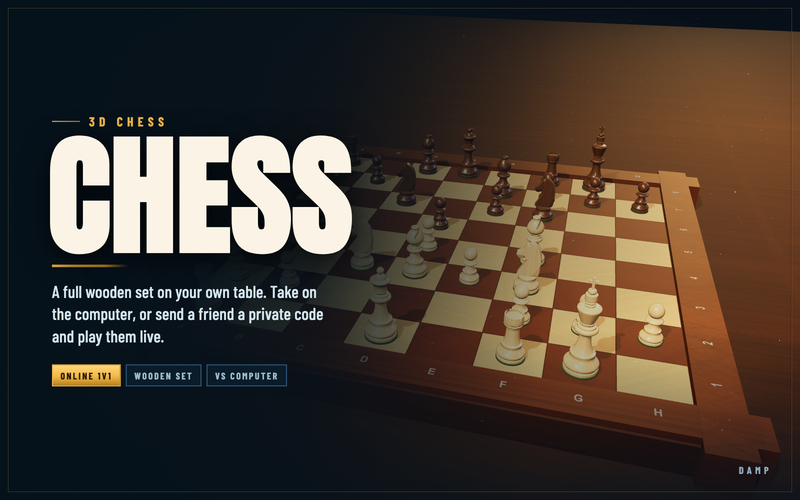
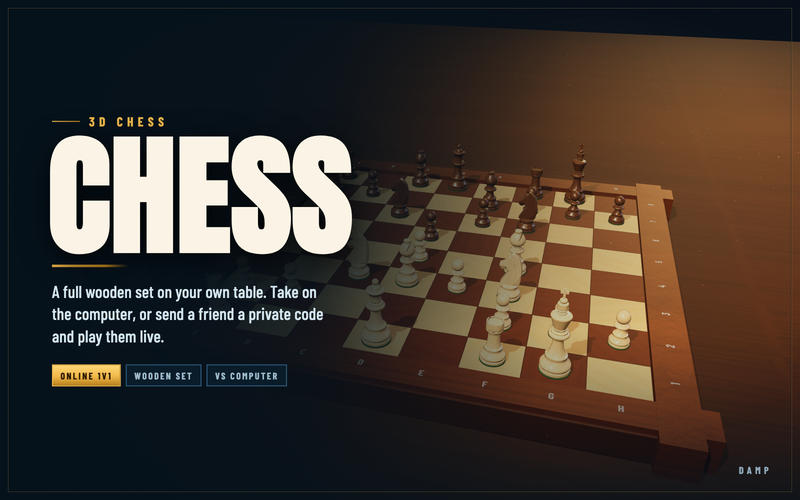
Chess: new pieces on the menu, and captures that actually hit
The menu board now rebuilds when the sculpted set arrives instead of keeping
the old procedural pieces. A captured piece is knocked over with a wood
splinter burst and crumbles away instead of sliding to the tray, and the tile
is re-rendered from the new set (with a cache-busting version).

🤖 Generated with Codebuff

Changed region(s): [[0.4062, 0.27, 0.9688, 0.93], [0.5938, 0.03, 1.0, 0.09]]

diff --git a/games/chess.html b/games/chess.html
@@ -1333,7 +1333,8 @@ async function loadPieceModels() {
         TEMPLATES[c + t] = piece;
       }
     }
-    if (G.started) { rebuild(); drawOverlays(); updateTurnUI(); }
+    rebuild();
+    if (G.started) { drawOverlays(); updateTurnUI(); }
   } catch (error) {
     // no model file: the turned pieces stay
     window.__pieceModelError = String((error && error.message) || error);
@@ -1789,25 +1790,98 @@ function updateTweens(dt) {
   }
 }
 
-function animateCapture(mesh, code) {
+const shardGeo = new THREE.BoxGeometry(1, 1, 1);
+const shardAxis = new THREE.Vector3(0, 1, 0);
+const shardSpin = new THREE.Quaternion();
+
+function captureDir(from, to) {
+  const dx = (to % 8) - (from % 8);
+  const dz = ((to / 8) | 0) - ((from / 8) | 0);
+  const len = Math.hypot(dx, dz) || 1;
+  return { x: dx / len, z: -dz / len };
+}
+
+// splinters of the same wood, thrown from the square that just got hit
+function splinterBurst(pos, code) {
+  const mat = code[0] === 'w' ? MAT.ivory : MAT.ebony;
+  const group = new THREE.Group();
+  group.position.copy(pos);
+  piecesRoot.add(group);
+  const bits = [];
+  for (let i = 0; i < 18; i++) {
+    const bit = new THREE.Mesh(shardGeo, mat);
+    const s = 0.022 + Math.random() * 0.05;
+    bit.scale.set(s, s * (1.2 + Math.random()), s);
+    bit.position.set((Math.random() - 0.5) * 0.16, 0.12 + Math.random() * 0.45, (Math.random() - 0.5) * 0.16);
+    bit.rotation.set(Math.random() * 3, Math.random() * 3, Math.random() * 3);
+    group.add(bit);
+    const a = Math.random() * Math.PI * 2;
+    const sp = 0.9 + Math.random() * 1.7;
+    bits.push({
+      bit,
+      vx: Math.cos(a) * sp, vz: Math.sin(a) * sp, vy: 1.3 + Math.random() * 2.1,
+      rx: (Math.random() - 0.5) * 16, rz: (Math.random() - 0.5) * 16
+    });
+  }
+  const t0 = performance.now();
+  let prev = t0;
+  (function step(now) {
+    const dt = Math.min(0.05, (now - prev) / 1000);
+    prev = now;
+    const life = (now - t0) / 1000;
+    for (const b of bits) {
+      b.vy -= 13 * dt;
+      b.bit.position.x += b.vx * dt;
+      b.bit.position.y += b.vy * dt;
+      b.bit.position.z += b.vz * dt;
+      b.bit.rotation.x += b.rx * dt;
+      b.bit.rotation.z += b.rz * dt;
+      if (b.bit.position.y < 0.03) {
+        b.bit.position.y = 0.03;
+        b.vy *= -0.32;
+        b.vx *= 0.66; b.vz *= 0.66;
+        b.rx *= 0.6; b.rz *= 0.6;
+      }
+      b.bit.scale.multiplyScalar(1 - dt * 0.5);
+    }
+    if (life < 0.9) requestAnimationFrame(step);
+    else piecesRoot.remove(group);
+  })(t0);
+}
+
+function animateCapture(mesh, code, dir) {
   if (!mesh) return;
-  const slot = G.caps[code[0]].length;
-  const [tx, tz] = trayPos(code, slot);
-  const from = mesh.position.clone();
-  tween(0.62, k => {
-    const kk = clamp((k - 0.15) / 0.85, 0, 1);
-    const e = easeInOut(kk);
-    mesh.position.x = lerp(from.x, tx, e);
-    mesh.position.z = lerp(from.z, tz, e);
-    mesh.position.y = Math.sin(kk * Math.PI) * 0.55;
-    mesh.scale.setScalar(lerp(1, 0.78, e));
-    mesh.rotation.y = e * 0.7;
+  const d = dir || { x: 0, z: 1 };
+  const start = mesh.position.clone();
+  const base = mesh.scale.clone();
+  const q0 = mesh.quaternion.clone();
+  const tipAxis = new THREE.Vector3(-d.z, 0, d.x).normalize();
+  const tipQ = q0.clone().multiply(new THREE.Quaternion().setFromAxisAngle(tipAxis, Math.PI / 2));
+  splinterBurst(start, code);
+
+  tween(0.56, k => {
+    const hit = Math.min(1, k / 0.1);
+    const tip = easeOut(clamp((k - 0.05) / 0.4, 0, 1));
+    const drop = clamp((k - 0.55) / 0.45, 0, 1);
+    shardSpin.setFromAxisAngle(shardAxis, drop * drop * 4.6);
+    mesh.quaternion.copy(q0).premultiply(shardSpin).slerp(tipQ.clone().premultiply(shardSpin), tip);
+    mesh.position.x = start.x + d.x * (0.06 * hit + 0.1 * drop);
+    mesh.position.z = start.z + d.z * (0.06 * hit + 0.1 * drop);
+    mesh.position.y = Math.sin(tip * Math.PI) * 0.06 + drop * 0.05;
+    const sx = 1 + 0.1 * Math.sin(hit * Math.PI);
+    const sy = 1 - 0.14 * Math.sin(hit * Math.PI);
+    const shrink = 1 - 0.95 * drop * drop;
+    mesh.scale.set(base.x * sx * shrink, base.y * sy * shrink, base.z * sx * shrink);
   }, () => {
-    mesh.position.set(tx, 0, tz);
-    mesh.scale.setScalar(0.78);
-    mesh.userData.tray = true;
-    mesh.traverse(o => { o.userData.pieceIndex = undefined; });
+    clearTimeout(ghostGuard);
+    piecesRoot.remove(mesh);
+    mesh.scale.copy(base);
+    mesh.quaternion.copy(q0);
   });
+  // a hidden tab stops the render loop mid-tween; never leave a ghost on the square
+  const ghostGuard = setTimeout(() => {
+    if (mesh.parent) piecesRoot.remove(mesh);
+  }, 1200);
 }
 
 /* ---------- playing a move ---------- */
@@ -1836,8 +1910,8 @@ function doMove(mv) {
 
   SND.pick();
   if (capCode) {
-    animateCapture(capMesh, capCode);
-    setTimeout(() => SND.capture(), 130);
+    animateCapture(capMesh, capCode, captureDir(mv.from, capSq));
+    setTimeout(() => SND.capture(), 70);
   }
 
   const from = sqPos(mv.from, new THREE.Vector3());
@@ -2722,7 +2796,7 @@ requestAnimationFrame(() => {
 
 // A tiny handle for automated checks; the page itself never uses it.
 if (location.hash === '#dev') {
-  window.__chess = { G, legalMoves, makeMove, bestMove, START, NEW_STATE, doMove, newGame, inCheck, sanOf, camera, view, scene, renderer, rebuild, drawOverlays, updateTurnUI, net: NET, templates: TEMPLATES };
+  window.__chess = { G, legalMoves, makeMove, bestMove, START, NEW_STATE, doMove, newGame, inCheck, sanOf, camera, view, scene, renderer, rebuild, drawOverlays, updateTurnUI, net: NET, templates: TEMPLATES, updateTweens, tweens, piecesRoot };
 }
 </script>
 </body></html>
